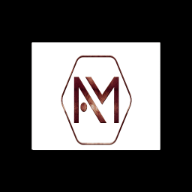
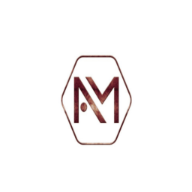
teste

diff --git a/src/Components/Logo/Logo.css b/src/Components/Logo/Logo.css
@@ -7,7 +7,7 @@
     background-size: 250% auto;
     background-position: center;
     background-repeat: no-repeat;
-    background-image: url('../../assets/logo.ico');
+    background-image: url('../../assets/logoBetter.png');
     transition: box-shadow 0.3s ease;
     cursor: pointer;
     display: inline-block;
